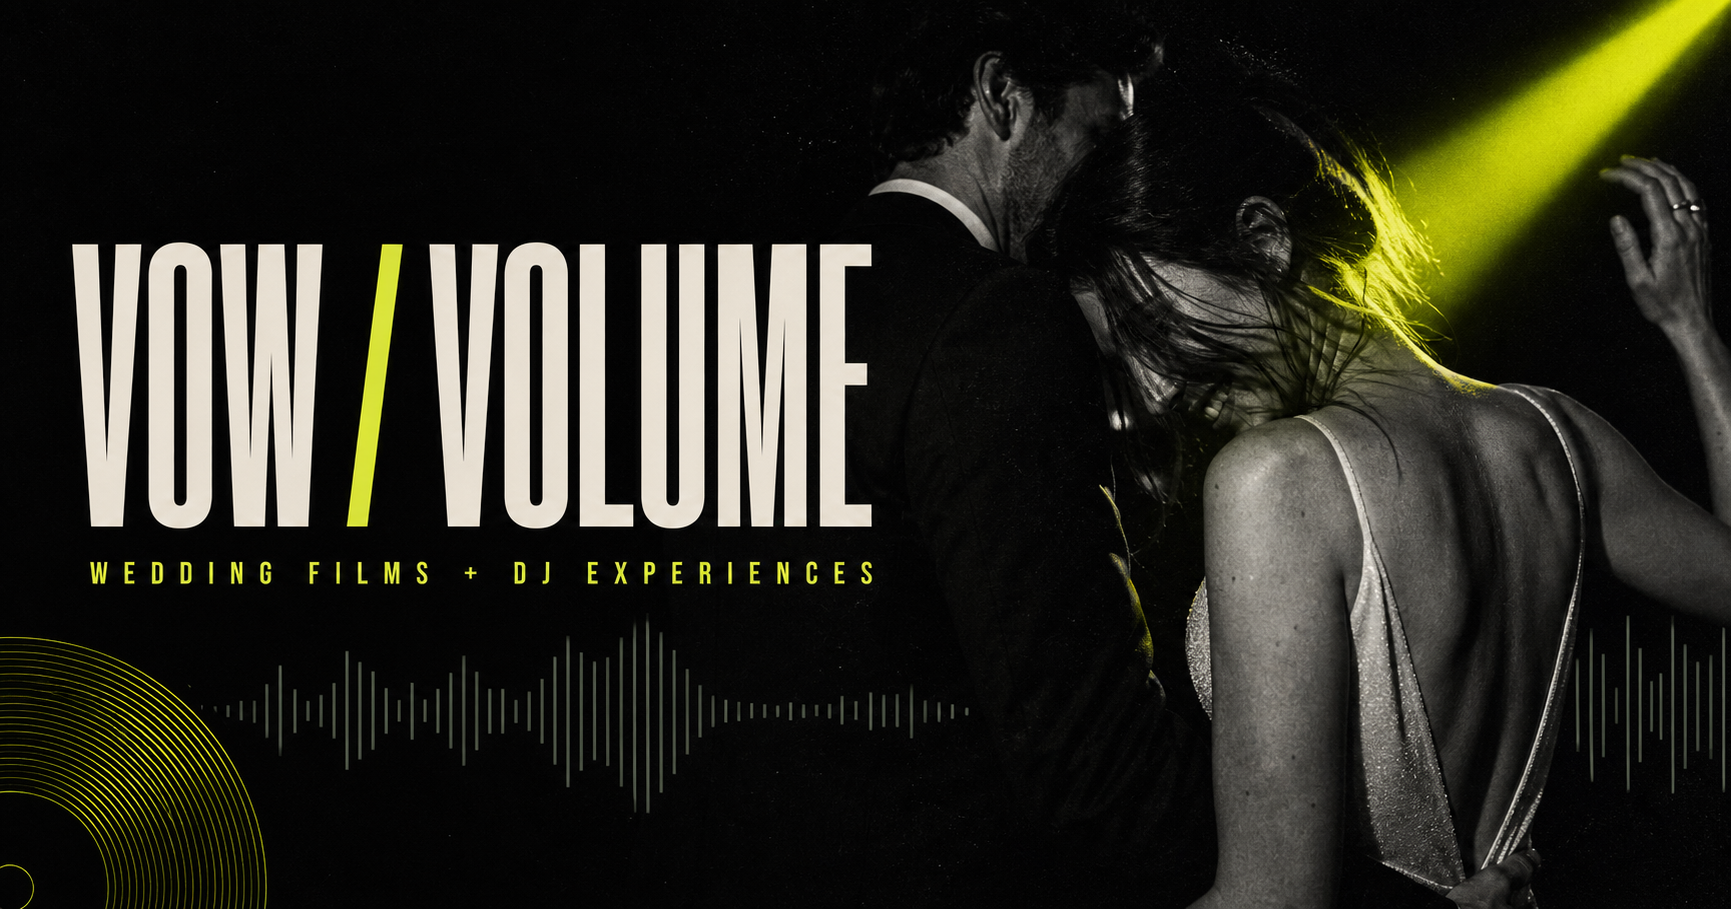
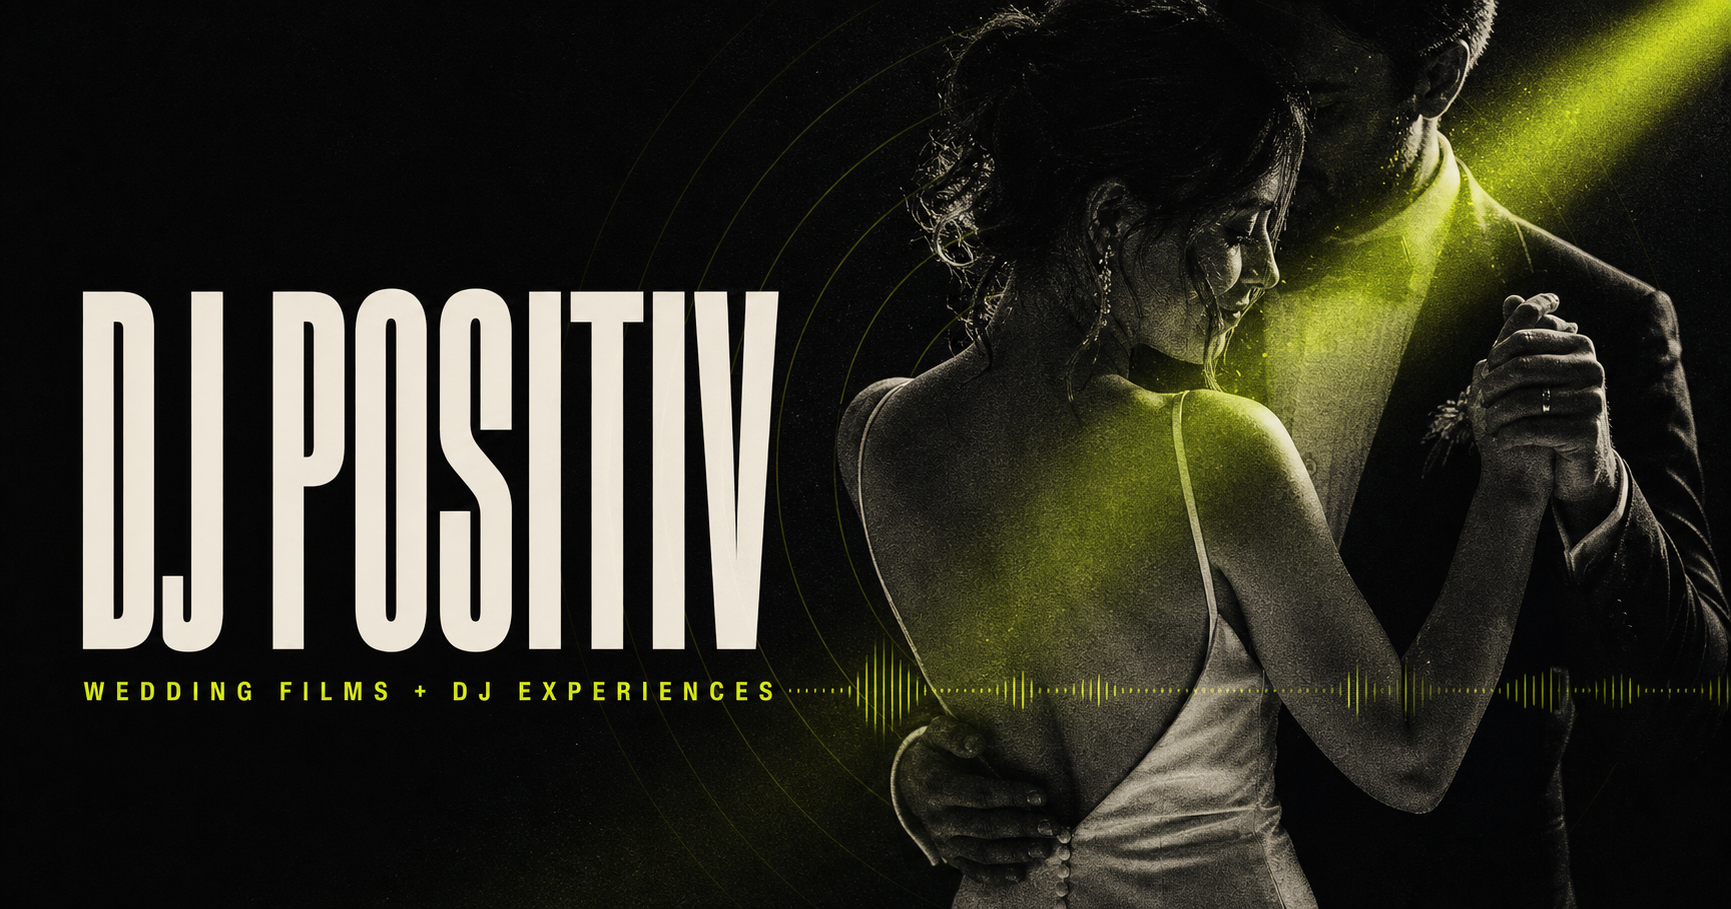
Brand site as DJ POSITIV and add pulse motion

diff --git a/app/globals.css b/app/globals.css
@@ -429,7 +429,7 @@ img {
 
 .record-seal span {
   font-family: var(--font-serif), serif;
-  font-size: 2.4rem;
+  font-size: 1.8rem;
   font-style: italic;
   color: var(--lime);
 }
@@ -945,9 +945,83 @@ img {
 
 .closing-ring span,
 .about-disc span {
+  position: relative;
+  z-index: 2;
   font-family: var(--font-condensed), sans-serif;
   font-size: clamp(4rem, 9vw, 9rem);
   font-weight: 800;
+}
+
+.closing-ring {
+  animation: closing-heartbeat 1.8s cubic-bezier(.2,.7,.25,1) infinite;
+}
+
+.closing-ring::before {
+  animation: inner-heartbeat 1.8s cubic-bezier(.2,.7,.25,1) infinite;
+}
+
+.closing-ring::after {
+  animation: center-heartbeat 1.8s cubic-bezier(.2,.7,.25,1) infinite;
+}
+
+.closing-ring span {
+  animation: monogram-heartbeat 1.8s cubic-bezier(.2,.7,.25,1) infinite;
+}
+
+.pulse-orbit {
+  position: absolute;
+  inset: -1px;
+  border: 1px solid currentColor;
+  border-radius: 50%;
+  pointer-events: none;
+  animation: pulse-orbit 1.8s cubic-bezier(.15,.65,.2,1) infinite;
+}
+
+.pulse-orbit-two {
+  animation-delay: .9s;
+}
+
+.closing-cta h2 em {
+  display: inline-block;
+  transform-origin: left center;
+  animation: noise-heartbeat 1.8s cubic-bezier(.2,.7,.25,1) infinite;
+}
+
+@keyframes closing-heartbeat {
+  0%, 100% { transform: translateY(-50%) scale(.985); }
+  12% { transform: translateY(-50%) scale(1.025); }
+  22% { transform: translateY(-50%) scale(.995); }
+  34% { transform: translateY(-50%) scale(1.045); }
+  48% { transform: translateY(-50%) scale(1); }
+}
+
+@keyframes inner-heartbeat {
+  0%, 100% { inset: 14%; opacity: .38; }
+  14%, 34% { inset: 11%; opacity: .75; }
+  48% { inset: 14%; opacity: .38; }
+}
+
+@keyframes center-heartbeat {
+  0%, 100% { transform: scale(.75); opacity: .55; }
+  14%, 34% { transform: scale(1.35); opacity: 1; }
+  48% { transform: scale(.75); opacity: .55; }
+}
+
+@keyframes monogram-heartbeat {
+  0%, 100% { transform: scale(1); }
+  14%, 34% { transform: scale(1.07); }
+  48% { transform: scale(1); }
+}
+
+@keyframes pulse-orbit {
+  0% { transform: scale(.9); opacity: .55; }
+  72%, 100% { transform: scale(1.18); opacity: 0; }
+}
+
+@keyframes noise-heartbeat {
+  0%, 100% { transform: scale(1); }
+  14%, 34% { transform: scale(1.018); }
+  48% { transform: scale(1); }
 }
 
 .site-footer {

diff --git a/app/layout.tsx b/app/layout.tsx
@@ -26,33 +26,33 @@ const sans = DM_Sans({
 });
 
 const siteOrigin =
-  process.env.URL ?? process.env.DEPLOY_PRIME_URL ?? "https://vowvolume.studio";
+  process.env.URL ?? process.env.DEPLOY_PRIME_URL ?? "https://djpositiv.com";
 
 export const metadata: Metadata = {
   metadataBase: new URL(siteOrigin),
   title: {
-    default: "Vow / Volume — Wedding Films + DJ Experiences",
-    template: "%s — Vow / Volume",
+    default: "DJ POSITIV — Wedding Films + DJ Experiences",
+    template: "%s — DJ POSITIV",
   },
   description:
     "Cinematic wedding films and room-moving DJ experiences, created as one seamless story.",
   openGraph: {
-    title: "Vow / Volume",
+    title: "DJ POSITIV",
     description:
       "Wedding films + DJ experiences. Film the feeling. Score the night.",
     type: "website",
     images: [
       {
         url: new URL("/og.png", siteOrigin).toString(),
-        width: 1920,
-        height: 1005,
-        alt: "Vow / Volume — Wedding Films + DJ Experiences",
+        width: 1731,
+        height: 909,
+        alt: "DJ POSITIV — Wedding Films + DJ Experiences",
       },
     ],
   },
   twitter: {
     card: "summary_large_image",
-    title: "Vow / Volume",
+    title: "DJ POSITIV",
     description:
       "Wedding films + DJ experiences. Film the feeling. Score the night.",
     images: [new URL("/og.png", siteOrigin).toString()],

diff --git a/app/components/SiteChrome.tsx b/app/components/SiteChrome.tsx
@@ -6,10 +6,10 @@ type ActivePage = "home" | "about" | "contact";
 export function SiteHeader({ active }: { active: ActivePage }) {
   return (
     <header className="site-header">
-      <Link className="wordmark" href="/" aria-label="Vow Volume home">
-        <span>VOW</span>
+      <Link className="wordmark" href="/" aria-label="DJ POSITIV home">
+        <span>DJ</span>
         <i aria-hidden="true" />
-        <span>VOLUME</span>
+        <span>POSITIV</span>
       </Link>
       <nav aria-label="Main navigation">
         <Link className={active === "home" ? "active" : ""} href="/">Home</Link>
@@ -37,9 +37,9 @@ export function SiteFooter() {
   return (
     <footer className="site-footer">
       <div className="footer-mark">
-        <span>VOW</span>
+        <span>DJ</span>
         <i aria-hidden="true" />
-        <span>VOLUME</span>
+        <span>POSITIV</span>
       </div>
       <div className="footer-grid">
         <p>
@@ -55,12 +55,12 @@ export function SiteFooter() {
         </div>
         <div>
           <p className="footer-label">Enquiries</p>
-          <a href="mailto:[email redacted]">[email redacted]</a>
+          <a href="mailto:[email redacted]">[email redacted]</a>
           <p>Italy · Europe · Wherever the story goes</p>
         </div>
       </div>
       <div className="footer-base">
-        <span>© 2026 Vow / Volume</span>
+        <span>© 2026 DJ POSITIV</span>
         <span>Film the feeling. Score the night.</span>
       </div>
     </footer>

diff --git a/app/page.tsx b/app/page.tsx
@@ -78,7 +78,7 @@ export default function Home() {
                 <span className="frame-corner frame-corner-b" aria-hidden="true" />
               </div>
               <div className="record-seal" aria-hidden="true">
-                <span>V</span>
+                <span>DP</span>
               </div>
               <div className="hero-timecode" aria-hidden="true">
                 REC&nbsp; 23:48:16
@@ -93,9 +93,9 @@ export default function Home() {
 
           <div className="hero-ticker" aria-hidden="true">
             <div>
+              <span>DJ POSITIV</span><b>✦</b><span>WEDDING FILMS</span><b>✦</b>
+              <span>DJ + SOUND</span><b>✦</b><span>DJ POSITIV</span><b>✦</b>
               <span>WEDDING FILMS</span><b>✦</b><span>DJ + SOUND</span><b>✦</b>
-              <span>ONE CREATIVE TEAM</span><b>✦</b><span>WEDDING FILMS</span><b>✦</b>
-              <span>DJ + SOUND</span><b>✦</b><span>ONE CREATIVE TEAM</span><b>✦</b>
             </div>
           </div>
         </section>
@@ -136,7 +136,7 @@ export default function Home() {
                   <img src={movement.image} alt={movement.alt} loading="lazy" />
                 </div>
                 <div className="film-label">
-                  <span>V/V — A{index + 1}</span>
+                  <span>DP — A{index + 1}</span>
                   <span>{movement.note}</span>
                 </div>
                 {movement.id === "release" && (
@@ -150,7 +150,7 @@ export default function Home() {
         </section>
 
         <section className="amplitude-strip" aria-label="Our creative approach">
-          <p className="eyebrow">The Vow / Volume approach</p>
+          <p className="eyebrow">The DJ POSITIV approach</p>
           <div className="amplitude-copy display">
             <span>Real people.</span>
             <span className="outline">Real rhythm.</span>
@@ -248,7 +248,9 @@ export default function Home() {
 
         <section className="closing-cta">
           <div className="closing-ring" aria-hidden="true">
-            <span>VV</span>
+            <i className="pulse-orbit pulse-orbit-one" />
+            <i className="pulse-orbit pulse-orbit-two" />
+            <span>DP</span>
           </div>
           <p className="eyebrow">Now booking 2026—2027</p>
           <h2 className="display">

diff --git a/app/about/page.tsx b/app/about/page.tsx
@@ -30,7 +30,7 @@ export default function AboutPage() {
       <SiteHeader active="about" />
       <main className="inner-page">
         <section className="about-hero">
-          <p className="eyebrow">About Vow / Volume</p>
+          <p className="eyebrow">About DJ POSITIV</p>
           <h1 className="display">
             We don&apos;t stand
             <br />
@@ -42,7 +42,7 @@ export default function AboutPage() {
               remembered: what you see, and what you feel when the music starts.
             </p>
             <div className="about-disc" aria-hidden="true">
-              <span>VV</span>
+              <span>DP</span>
             </div>
           </div>
         </section>
@@ -67,7 +67,7 @@ export default function AboutPage() {
               beat.
             </p>
             <p>
-              Vow / Volume brings those instincts together. The result is a
+              DJ POSITIV brings those instincts together. The result is a
               quieter presence during the intimate parts, a sharper sense of
               the whole day&apos;s arc, and one less handoff for you to manage.
             </p>

diff --git a/app/contact/ContactForm.tsx b/app/contact/ContactForm.tsx
@@ -16,7 +16,7 @@ export function ContactForm() {
     const body = encodeURIComponent(
       `Name(s): ${name}\nDate: ${date}\nLocation: ${place}\nGuests: ${guests}\nInterested in: ${services}\n\nTell us about it:\n${story}`,
     );
-    window.location.href = `mailto:[email redacted]?subject=${subject}&body=${body}`;
+    window.location.href = `mailto:[email redacted]?subject=${subject}&body=${body}`;
   }
 
   return (
@@ -66,7 +66,7 @@ export function ContactForm() {
       <p className="form-note">
         This opens your email app with the details filled in. Prefer to write
         directly?{" "}
-        <a href="mailto:[email redacted]">[email redacted]</a>
+        <a href="mailto:[email redacted]">[email redacted]</a>
       </p>
     </form>
   );

diff --git a/app/contact/page.tsx b/app/contact/page.tsx
@@ -42,8 +42,8 @@ export default function ContactPage() {
               <div>
                 <dt>Direct</dt>
                 <dd>
-                  <a href="mailto:[email redacted]">
-                    [email redacted]
+                  <a href="mailto:[email redacted]">
+                    [email redacted]
                   </a>
                 </dd>
               </div>